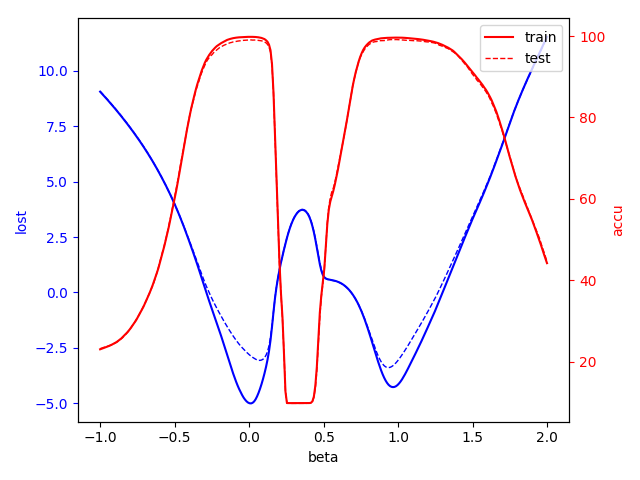
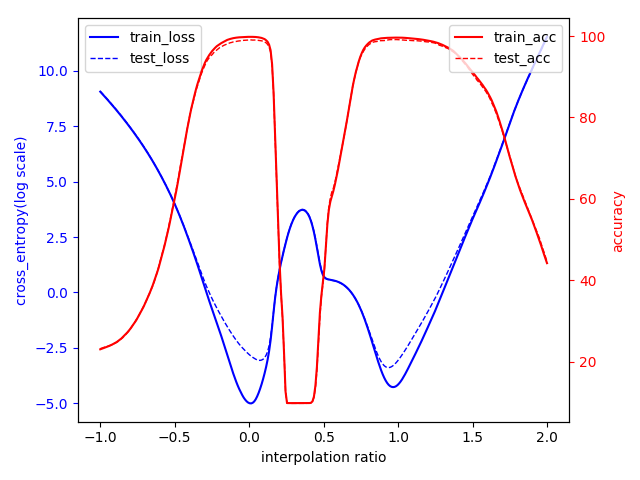
h

diff --git a/hw1/1-3/1-3-3-1/plot.py b/hw1/1-3/1-3-3-1/plot.py
@@ -9,10 +9,7 @@ assert plt and np
 #               setting option                             #
 ############################################################
 dm=Datamanager()
-#parser = argparse.ArgumentParser(description='setting module parameter.')
-#parser.add_argument('-lo','--loss_output', dest='loss_output',type=str,required=True)
-#parser.add_argument('-ao','--accu_output', dest='accu_output',type=str,required=True)
-#args = parser.parse_args()
+
 ############################################################
 #               loading data                               #
 ############################################################
@@ -24,25 +21,25 @@ dm.load_np('test','record/val.npy')
 ############################################################
 fig, ax1 = plt.subplots()
 x = np.linspace(-1,2,300)
-ax1.plot(x, np.log(dm.data['train'][:,0]), 'b-', label='train')
-ax1.plot(x, np.log(dm.data['test'][:,0]), 'b-', linewidth=1.0, linestyle='--', label='test')
-ax1.set_xlabel('beta')
+ax1.plot(x, np.log(dm.data['train'][:,0]), 'b-', label='train_loss')
+ax1.plot(x, np.log(dm.data['test'][:,0]), 'b-', linewidth=1.0, linestyle='--', label='test_loss')
+ax1.set_xlabel('interpolation ratio')
 #plt.plot(x,dm.data['lost'],'b',label='lost')
 #plt.plot(x,dm.data['accu'],'g',label='accu')
-ax1.set_ylabel('lost', color='b')
+ax1.set_ylabel('cross_entropy(log scale)', color='b')
 ax1.tick_params('y', colors='b')
 ax2 = ax1.twinx()
-ax2.plot(x,dm.data['train'][:,1], 'r', label='train')
-ax2.plot(x,dm.data['test'][:,1], 'r', linewidth=1.0, linestyle='--', label='test')
+ax2.plot(x,dm.data['train'][:,1], 'r', label='train_acc')
+ax2.plot(x,dm.data['test'][:,1], 'r', linewidth=1.0, linestyle='--', label='test_acc')
 
-ax2.set_ylabel('accu', color='r')
+ax2.set_ylabel('accuracy', color='r')
 ax2.tick_params('y', colors='r')
 
 fig.tight_layout()
-plt.legend(loc='upper right')
+#plt.legend(loc='upper right')
+ax1.legend(loc='upper left')
+ax2.legend(loc='upper right')
 #plt.show()
 plt.savefig('beta.png')
-############################################################
-#               plot loss                                  #
-############################################################
+
 
